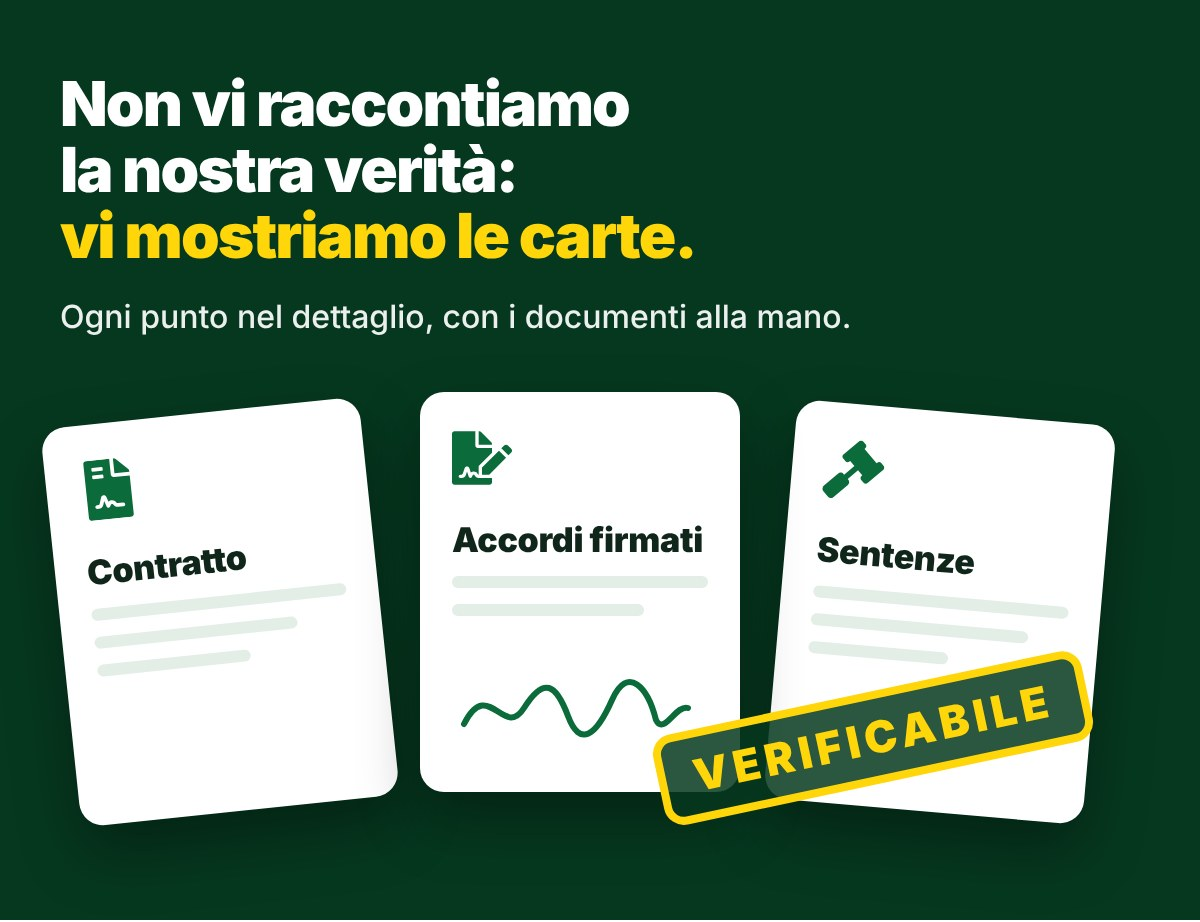
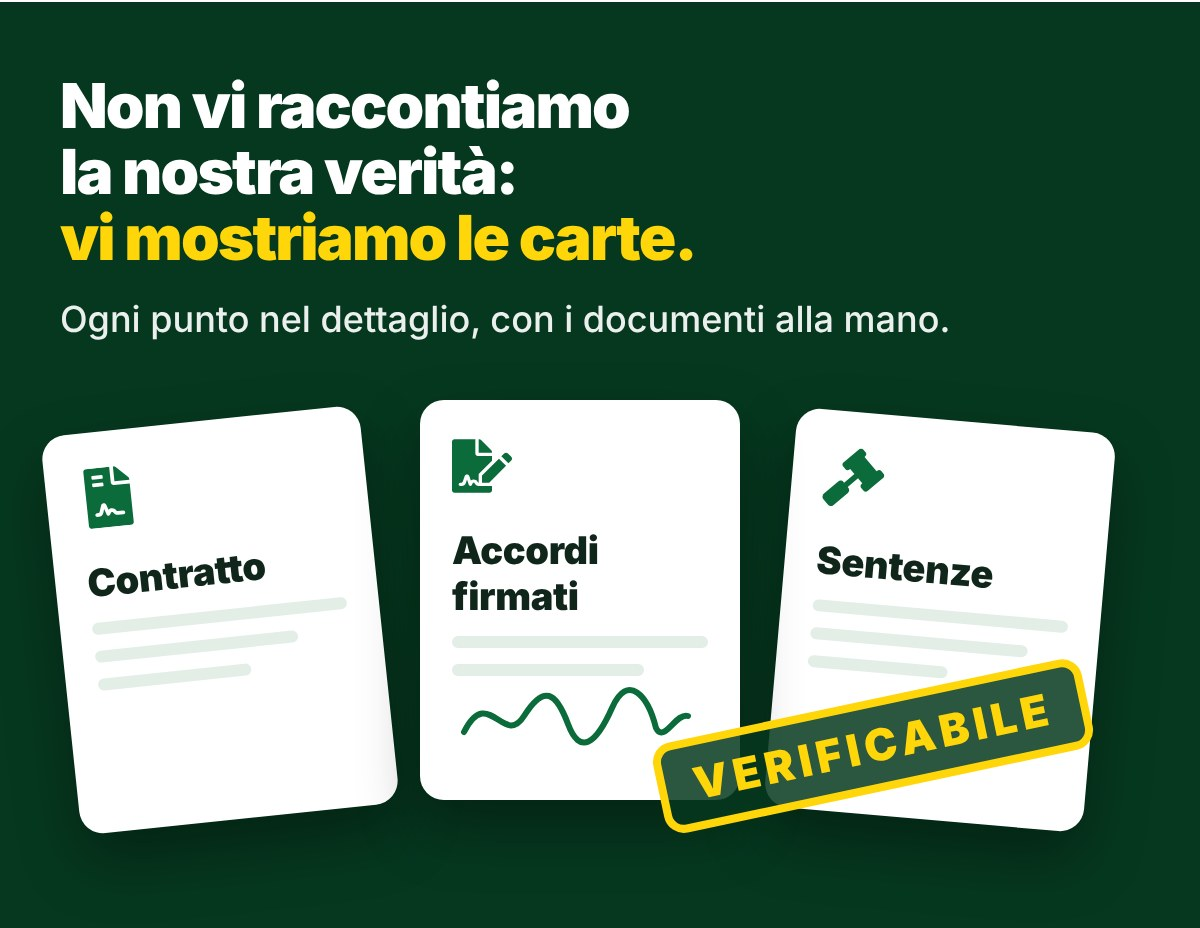
Mail assemblea: testi più grandi nelle sezioni grafiche
Claude-Session: https://claude.ai/code/session_01PxXVALzQRF4TVQFTkWc9ZF

diff --git a/email/assemblea-2026-12-07/mail-sendfox.html b/email/assemblea-2026-12-07/mail-sendfox.html
@@ -2,7 +2,7 @@
 <div style="display:none;max-height:0;overflow:hidden;">Aula Magna, 7:30–13:00. Assemblea retribuita per tutto il comparto: ecco l’ordine del giorno completo.</div>
 <table role="presentation" width="100%" cellpadding="0" cellspacing="0" border="0" bgcolor="#DDE8E0"><tr><td align="center" style="padding:24px 10px 30px;">
 <table role="presentation" width="600" cellpadding="0" cellspacing="0" border="0" style="width:100%;max-width:600px;background:#ffffff;border-radius:22px;overflow:hidden;box-shadow:0 10px 30px rgba(6,56,31,.18);">
-<tr><td><img src="https://cdn.jsdelivr.net/gh/aki1806-droid/Prove@3345ca686386de78af0d304fdd2ff4e46c36db46/email/assemblea-2026-12-07/mail-hero.jpg" width="600" alt="Annuncio CISL FP: assemblea generale del comparto, lunedì 7 dicembre, dalle 7:30 alle 13:00, Aula Magna, 2° piano della palazzina dei servizi. Assemblea retribuita per tutti." style="display:block;width:100%;max-width:600px;height:auto;border:0;outline:none;text-decoration:none;"></td></tr>
+<tr><td><img src="https://cdn.jsdelivr.net/gh/aki1806-droid/Prove@d6a2b0472962abb6c4bfbfd5e394369f18e07691/email/assemblea-2026-12-07/mail-hero.jpg" width="600" alt="Annuncio CISL FP: assemblea generale del comparto, lunedì 7 dicembre, dalle 7:30 alle 13:00, Aula Magna, 2° piano della palazzina dei servizi. Assemblea retribuita per tutti." style="display:block;width:100%;max-width:600px;height:auto;border:0;outline:none;text-decoration:none;"></td></tr>
 <tr><td bgcolor="#06381F" style="padding:6px 36px 34px;font-family:Inter,'Segoe UI',Helvetica,Arial,sans-serif;color:#ffffff;">
 <p style="margin:0;font-size:19px;line-height:29px;font-weight:700;">{{contact.first_name | Ciao}},</p>
 <p style="margin:10px 0 0;font-size:18px;line-height:28px;color:#E4F1E8;">lunedì <b style="color:#FFD60A;">7 dicembre</b>, dalle <b style="color:#ffffff;">7:30 alle 13:00</b> in <b style="color:#ffffff;">Aula Magna</b>, la CISL FP Padova Rovigo convoca l’assemblea generale del personale del comparto dell’Azienda Ospedale-Università di Padova.</p>
@@ -12,10 +12,10 @@
 <div style="margin-top:8px;font-size:30px;line-height:34px;font-weight:900;letter-spacing:-0.8px;color:#10261A;">Non perdi un minuto.</div>
 <p style="margin:10px 0 0;font-size:16px;line-height:24px;color:#5B6B62;">Vale per tutti, di ogni reparto e di ogni servizio.<br>Vieni quando il turno te lo permette: ogni punto si regge da solo.</p>
 </td></tr>
-<tr><td style="padding:0 0 8px;"><img src="https://cdn.jsdelivr.net/gh/aki1806-droid/Prove@3345ca686386de78af0d304fdd2ff4e46c36db46/email/assemblea-2026-12-07/retribuita.gif" width="600" alt="Interruttore: assemblea retribuita. Vale per tutti, ogni reparto, ogni servizio. Non perdi un minuto." style="display:block;width:100%;max-width:600px;height:auto;border:0;outline:none;text-decoration:none;"></td></tr>
-<tr><td><img src="https://cdn.jsdelivr.net/gh/aki1806-droid/Prove@3345ca686386de78af0d304fdd2ff4e46c36db46/email/assemblea-2026-12-07/mail-ruoli.jpg" width="600" alt="L’invito è per ognuno di voi: infermieri, operatori socio sanitari, tecnici, ostetriche, amministrativi." style="display:block;width:100%;max-width:600px;height:auto;border:0;outline:none;text-decoration:none;"></td></tr>
-<tr><td><img src="https://cdn.jsdelivr.net/gh/aki1806-droid/Prove@3345ca686386de78af0d304fdd2ff4e46c36db46/email/assemblea-2026-12-07/mail-odg.jpg" width="600" alt="Ordine del giorno: 1 Nuovo CCNL Sanità 2025-2027; 2 Accordi decentrati AOUP 2026; 3 Sistema degli incarichi; 4 Welfare Regione Veneto; 5 Vertenze legali: buono pasto, festivo infrasettimanale, indennità di ferie; 6 Incentivi per le funzioni tecniche; 7 Andamenti occupazionali; 8 Retention e benessere organizzativo; 9 Situazione previdenziale; 10 Varie ed eventuali." style="display:block;width:100%;max-width:600px;height:auto;border:0;outline:none;text-decoration:none;"></td></tr>
-<tr><td><img src="https://cdn.jsdelivr.net/gh/aki1806-droid/Prove@3345ca686386de78af0d304fdd2ff4e46c36db46/email/assemblea-2026-12-07/mail-carte.jpg" width="600" alt="Non vi raccontiamo la nostra verità: vi mostriamo le carte. Contratto, accordi firmati, sentenze: tutto verificabile." style="display:block;width:100%;max-width:600px;height:auto;border:0;outline:none;text-decoration:none;"></td></tr>
+<tr><td style="padding:0 0 8px;"><img src="https://cdn.jsdelivr.net/gh/aki1806-droid/Prove@d6a2b0472962abb6c4bfbfd5e394369f18e07691/email/assemblea-2026-12-07/retribuita.gif" width="600" alt="Interruttore: assemblea retribuita. Vale per tutti, ogni reparto, ogni servizio. Non perdi un minuto." style="display:block;width:100%;max-width:600px;height:auto;border:0;outline:none;text-decoration:none;"></td></tr>
+<tr><td><img src="https://cdn.jsdelivr.net/gh/aki1806-droid/Prove@d6a2b0472962abb6c4bfbfd5e394369f18e07691/email/assemblea-2026-12-07/mail-ruoli.jpg" width="600" alt="L’invito è per ognuno di voi: infermieri, operatori socio sanitari, tecnici, ostetriche, amministrativi." style="display:block;width:100%;max-width:600px;height:auto;border:0;outline:none;text-decoration:none;"></td></tr>
+<tr><td><img src="https://cdn.jsdelivr.net/gh/aki1806-droid/Prove@d6a2b0472962abb6c4bfbfd5e394369f18e07691/email/assemblea-2026-12-07/mail-odg.jpg" width="600" alt="Ordine del giorno: 1 Nuovo CCNL Sanità 2025-2027; 2 Accordi decentrati AOUP 2026; 3 Sistema degli incarichi; 4 Welfare Regione Veneto; 5 Vertenze legali: buono pasto, festivo infrasettimanale, indennità di ferie; 6 Incentivi per le funzioni tecniche; 7 Andamenti occupazionali; 8 Retention e benessere organizzativo; 9 Situazione previdenziale; 10 Varie ed eventuali." style="display:block;width:100%;max-width:600px;height:auto;border:0;outline:none;text-decoration:none;"></td></tr>
+<tr><td><img src="https://cdn.jsdelivr.net/gh/aki1806-droid/Prove@d6a2b0472962abb6c4bfbfd5e394369f18e07691/email/assemblea-2026-12-07/mail-carte.jpg" width="600" alt="Non vi raccontiamo la nostra verità: vi mostriamo le carte. Contratto, accordi firmati, sentenze: tutto verificabile." style="display:block;width:100%;max-width:600px;height:auto;border:0;outline:none;text-decoration:none;"></td></tr>
 <tr><td bgcolor="#06381F" style="padding:0 36px 38px;font-family:Inter,'Segoe UI',Helvetica,Arial,sans-serif;color:#ffffff;" align="center">
 <p style="margin:0 0 22px;font-size:16px;line-height:25px;color:#E4F1E8;text-align:left;">Tratteremo ogni punto nel dettaglio: il contratto, gli accordi firmati, le sentenze. Gli accordi sono già pubblicati sul sito dell’Azienda, <b style="color:#ffffff;">puoi leggerli prima di venire</b>. E ogni domanda che farete diventa una nostra richiesta al prossimo tavolo con l’Azienda.</p>
 <table role="presentation" cellpadding="0" cellspacing="0" border="0" align="center"><tr><td align="center" bgcolor="#FFD60A" style="border-radius:40px;box-shadow:0 6px 0 #C9A800;"><a href="https://www.aopd.veneto.it/art,424" target="_blank" style="display:inline-block;padding:16px 34px;font-family:Inter,'Segoe UI',Helvetica,Arial,sans-serif;font-size:17px;font-weight:800;color:#06381F;text-decoration:none;border-radius:40px;">Leggi gli accordi firmati →</a></td></tr></table>
@@ -27,11 +27,11 @@
 <table role="presentation" cellpadding="0" cellspacing="0" border="0" align="center"><tr><td align="center" bgcolor="#0B6B3A" style="border-radius:40px;"><a href="https://calendar.google.com/calendar/render?action=TEMPLATE&text=Assemblea%20generale%20del%20comparto%20AOUP%20%E2%80%93%20CISL%20FP&dates=20261207T063000Z/20261207T120000Z&location=Aula%20Magna%2C%202%C2%B0%20piano%20palazzina%20dei%20servizi%2C%20Azienda%20Ospedale-Universit%C3%A0%20di%20Padova&details=Assemblea%20retribuita%20per%20tutto%20il%20personale%20del%20comparto.%20Vieni%20quando%20il%20turno%20te%20lo%20permette." target="_blank" style="display:inline-block;padding:16px 34px;font-family:Inter,'Segoe UI',Helvetica,Arial,sans-serif;font-size:17px;font-weight:800;color:#ffffff;text-decoration:none;border-radius:40px;">📅  Salva nel calendario</a></td></tr></table>
 </td></tr>
 <tr><td style="padding:26px 28px 8px;"><table role="presentation" width="100%" cellpadding="0" cellspacing="0" border="0"><tr><td bgcolor="#F4FAF5" style="border-radius:18px;padding:22px 18px;">
-<div style="font-size:0;text-align:center;"><div style="display:inline-block;vertical-align:middle;width:170px;padding-bottom:10px;"><a href="https://cdn.jsdelivr.net/gh/aki1806-droid/Prove@3345ca686386de78af0d304fdd2ff4e46c36db46/email/assemblea-2026-12-07/volantino-assemblea-7-dicembre.pdf" target="_blank"><img src="https://cdn.jsdelivr.net/gh/aki1806-droid/Prove@3345ca686386de78af0d304fdd2ff4e46c36db46/email/assemblea-2026-12-07/volantino-anteprima.jpg" width="150" alt="Il volantino dell’assemblea" style="display:block;margin:0 auto;width:150px;height:auto;border:0;border-radius:8px;box-shadow:0 8px 18px rgba(6,56,31,.25);"></a></div><div style="display:inline-block;vertical-align:middle;width:100%;max-width:330px;text-align:left;font-family:Inter,'Segoe UI',Helvetica,Arial,sans-serif;"><div style="font-size:19px;line-height:24px;font-weight:900;color:#10261A;">Il volantino per il tuo reparto</div><p style="margin:8px 0 14px;font-size:15px;line-height:22px;color:#5B6B62;">Stampalo per la bacheca o giralo nella chat di reparto. Più siamo, più pesa la nostra voce.</p>
-<a href="https://cdn.jsdelivr.net/gh/aki1806-droid/Prove@3345ca686386de78af0d304fdd2ff4e46c36db46/email/assemblea-2026-12-07/volantino-assemblea-7-dicembre.pdf" target="_blank" style="display:inline-block;background:#06381F;color:#ffffff;font-size:14px;font-weight:800;text-decoration:none;padding:10px 18px;border-radius:30px;">Scarica il PDF ↓</a>&nbsp;&nbsp;<a href="https://whatsapp.com/channel/0029Vb3QaUS1HsppE8X4ow0R" target="_blank" style="display:inline-block;margin-top:8px;background:#ffffff;border:2px solid #0B6B3A;color:#0B6B3A;font-size:14px;font-weight:800;text-decoration:none;padding:8px 16px;border-radius:30px;">Canale WhatsApp</a></div></div>
+<div style="font-size:0;text-align:center;"><div style="display:inline-block;vertical-align:middle;width:170px;padding-bottom:10px;"><a href="https://cdn.jsdelivr.net/gh/aki1806-droid/Prove@d6a2b0472962abb6c4bfbfd5e394369f18e07691/email/assemblea-2026-12-07/volantino-assemblea-7-dicembre.pdf" target="_blank"><img src="https://cdn.jsdelivr.net/gh/aki1806-droid/Prove@d6a2b0472962abb6c4bfbfd5e394369f18e07691/email/assemblea-2026-12-07/volantino-anteprima.jpg" width="150" alt="Il volantino dell’assemblea" style="display:block;margin:0 auto;width:150px;height:auto;border:0;border-radius:8px;box-shadow:0 8px 18px rgba(6,56,31,.25);"></a></div><div style="display:inline-block;vertical-align:middle;width:100%;max-width:330px;text-align:left;font-family:Inter,'Segoe UI',Helvetica,Arial,sans-serif;"><div style="font-size:19px;line-height:24px;font-weight:900;color:#10261A;">Il volantino per il tuo reparto</div><p style="margin:8px 0 14px;font-size:15px;line-height:22px;color:#5B6B62;">Stampalo per la bacheca o giralo nella chat di reparto. Più siamo, più pesa la nostra voce.</p>
+<a href="https://cdn.jsdelivr.net/gh/aki1806-droid/Prove@d6a2b0472962abb6c4bfbfd5e394369f18e07691/email/assemblea-2026-12-07/volantino-assemblea-7-dicembre.pdf" target="_blank" style="display:inline-block;background:#06381F;color:#ffffff;font-size:14px;font-weight:800;text-decoration:none;padding:10px 18px;border-radius:30px;">Scarica il PDF ↓</a>&nbsp;&nbsp;<a href="https://whatsapp.com/channel/0029Vb3QaUS1HsppE8X4ow0R" target="_blank" style="display:inline-block;margin-top:8px;background:#ffffff;border:2px solid #0B6B3A;color:#0B6B3A;font-size:14px;font-weight:800;text-decoration:none;padding:8px 16px;border-radius:30px;">Canale WhatsApp</a></div></div>
 </td></tr></table></td></tr>
 <tr><td style="padding:30px 36px 30px;"><table role="presentation" cellpadding="0" cellspacing="0" border="0"><tr>
-<td width="84" valign="middle"><img src="https://cdn.jsdelivr.net/gh/aki1806-droid/Prove@3345ca686386de78af0d304fdd2ff4e46c36db46/email/assemblea-2026-12-07/ritratto.jpg" width="72" height="72" alt="Achille Pagliaro" style="display:block;width:72px;height:72px;border-radius:36px;border:3px solid #FFD60A;"></td>
+<td width="84" valign="middle"><img src="https://cdn.jsdelivr.net/gh/aki1806-droid/Prove@d6a2b0472962abb6c4bfbfd5e394369f18e07691/email/assemblea-2026-12-07/ritratto.jpg" width="72" height="72" alt="Achille Pagliaro" style="display:block;width:72px;height:72px;border-radius:36px;border:3px solid #FFD60A;"></td>
 <td valign="middle" style="font-family:Inter,'Segoe UI',Helvetica,Arial,sans-serif;"><div style="font-size:17px;line-height:23px;color:#10261A;">Ci vediamo lunedì.</div><div style="font-size:18px;line-height:24px;font-weight:900;color:#10261A;">Achille Pagliaro</div><div style="font-size:13px;line-height:20px;color:#5B6B62;">CISL FP Padova Rovigo · 391 127 1018<br><a href="mailto:cisl.fp@aopd.veneto.it" style="color:#0B6B3A;font-weight:700;">cisl.fp@aopd.veneto.it</a></div></td>
 </tr></table></td></tr>
 <tr><td bgcolor="#FFD60A" style="padding:20px 28px;font-family:Inter,'Segoe UI',Helvetica,Arial,sans-serif;font-size:16px;line-height:22px;font-weight:900;letter-spacing:0.5px;color:#06381F;" align="center">LUNEDÌ 7 DICEMBRE · 7:30–13:00 · AULA MAGNA</td></tr>

diff --git a/email/assemblea-2026-12-07/sezioni.html b/email/assemblea-2026-12-07/sezioni.html
@@ -16,13 +16,13 @@ section{width:600px;position:relative;overflow:hidden}
 #hero .tx{position:absolute;left:32px;right:32px;top:206px;color:#fff;z-index:2}
 .k{display:inline-block;background:#FFD60A;color:#06381F;font-weight:900;font-size:12px;letter-spacing:.18em;padding:6px 11px;border-radius:5px}
 #hero h1{margin-top:12px;font-size:60px;line-height:.94;font-weight:900;letter-spacing:-.04em} #hero h1 em{font-style:normal;color:#FFD60A}
-#hero .sub{margin-top:10px;font-size:19px;font-weight:600;opacity:.92}
+#hero .sub{margin-top:10px;font-size:21px;font-weight:600;opacity:.92}
 .ticket{position:absolute;left:24px;right:24px;top:478px;height:206px;background:#fff;border-radius:18px;display:flex;box-shadow:0 18px 40px rgba(0,0,0,.35)}
 .ticket .c{flex:1;padding:22px 18px;position:relative}
 .ticket .c+.c::before{content:"";position:absolute;left:0;top:18px;bottom:18px;border-left:2px dashed #CFE0D4}
-.ticket .l{display:flex;align-items:center;gap:7px;font-size:10.5px;font-weight:800;letter-spacing:.16em;color:#5B6B62}
-.ticket .v{margin-top:12px;font-size:27px;line-height:1.02;font-weight:900;letter-spacing:-.03em;color:#0B6B3A}
-.ticket .s{margin-top:8px;font-size:13px;line-height:1.3;color:#5B6B62;font-weight:500}
+.ticket .l{display:flex;align-items:center;gap:7px;font-size:12px;font-weight:800;letter-spacing:.16em;color:#5B6B62}
+.ticket .v{margin-top:10px;font-size:30px;line-height:1.02;font-weight:900;letter-spacing:-.03em;color:#0B6B3A}
+.ticket .s{margin-top:8px;font-size:15px;line-height:1.3;color:#5B6B62;font-weight:500}
 .ticket .g{background:#FFD60A;border-radius:0 18px 18px 0} .ticket .g .l,.ticket .g .v,.ticket .g .s{color:#06381F}
 .notch{position:absolute;top:572px;width:26px;height:26px;border-radius:50%;background:#06381F;z-index:3}
 /* RUOLI */
@@ -30,7 +30,7 @@ section{width:600px;position:relative;overflow:hidden}
 #ruoli h2{font-size:13px;font-weight:900;letter-spacing:.18em;color:#0B6B3A}
 #ruoli .big{margin-top:8px;font-size:30px;line-height:1.05;font-weight:900;letter-spacing:-.03em}
 .chips{margin-top:20px;display:flex;flex-wrap:wrap;justify-content:center;gap:10px}
-.chip{display:flex;align-items:center;gap:10px;background:#fff;border:2px solid #DCEBE0;border-radius:40px;padding:10px 16px 10px 12px;font-size:16px;font-weight:700}
+.chip{display:flex;align-items:center;gap:10px;background:#fff;border:2px solid #DCEBE0;border-radius:40px;padding:11px 17px 11px 13px;font-size:18px;font-weight:700}
 /* ODG */
 #odg{background:#fff;padding:34px 28px 30px}
 #odg .hd{display:flex;align-items:flex-end;justify-content:space-between}
@@ -40,16 +40,16 @@ section{width:600px;position:relative;overflow:hidden}
 .tile{position:relative;background:#F4FAF5;border-radius:14px;padding:16px 14px 15px 62px;min-height:82px}
 .tile .ic{position:absolute;left:15px;top:20px}
 .tile .num{position:absolute;right:12px;top:10px;font-size:12px;font-weight:900;color:#9DB8A6;letter-spacing:.04em}
-.tile .tt{font-size:16.5px;line-height:1.15;font-weight:800;letter-spacing:-.01em;padding-right:18px}
-.tile .ts{margin-top:3px;font-size:13px;color:#5B6B62;font-weight:500}
+.tile .tt{font-size:18px;line-height:1.15;font-weight:800;letter-spacing:-.01em;padding-right:18px}
+.tile .ts{margin-top:3px;font-size:14.5px;color:#5B6B62;font-weight:500}
 .tile.hl{background:#06381F} .tile.hl .tt{color:#fff} .tile.hl .ts{color:#FFD60A} .tile.hl .num{color:#FFD60A}
 /* CARTE */
 #carte{background:#06381F;padding:36px 30px 34px;color:#fff}
 #carte .big{font-size:31px;line-height:1.06;font-weight:900;letter-spacing:-.03em} #carte .big em{font-style:normal;color:#FFD60A}
-#carte p{margin-top:12px;font-size:16px;line-height:1.45;opacity:.92;font-weight:500}
+#carte p{margin-top:12px;font-size:18px;line-height:1.45;opacity:.92;font-weight:500}
 .docs{position:relative;height:230px;margin-top:26px}
 .doc{position:absolute;top:10px;width:160px;height:200px;background:#fff;border-radius:12px;padding:18px 16px;color:#10261A;box-shadow:0 14px 30px rgba(0,0,0,.35)}
-.doc .ic{margin-bottom:12px} .doc b{display:block;font-size:17px;font-weight:900;letter-spacing:-.01em}
+.doc .ic{margin-bottom:12px} .doc b{display:block;font-size:19px;font-weight:900;letter-spacing:-.01em}
 .doc .ln{height:6px;border-radius:3px;background:#E3EEE6;margin-top:8px}
 .doc .sig{position:absolute;left:18px;bottom:22px}
 .stamp{position:absolute;z-index:5;right:24px;top:150px;transform:rotate(-12deg);border:4px solid #FFD60A;color:#FFD60A;font-weight:900;font-size:22px;letter-spacing:.12em;padding:6px 14px;border-radius:10px;background:rgba(6,56,31,.85)}
